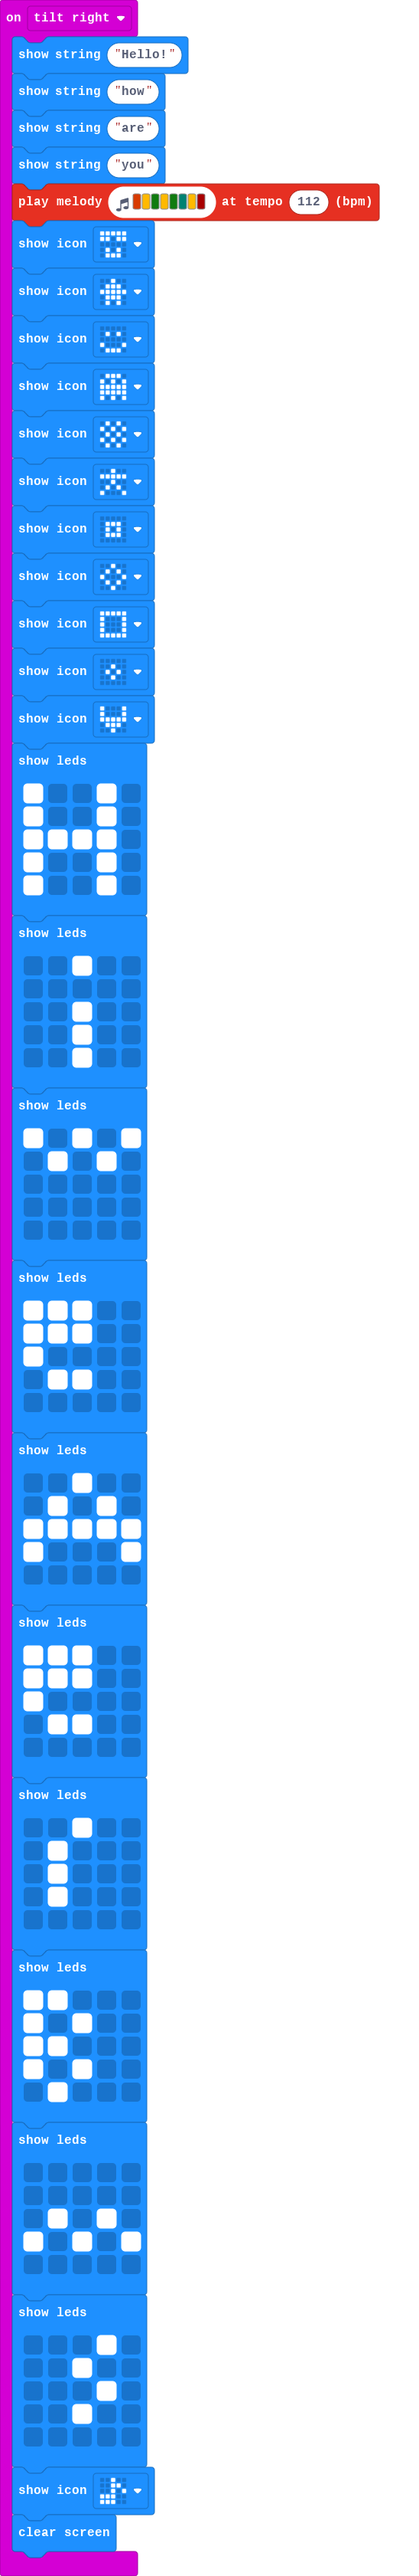
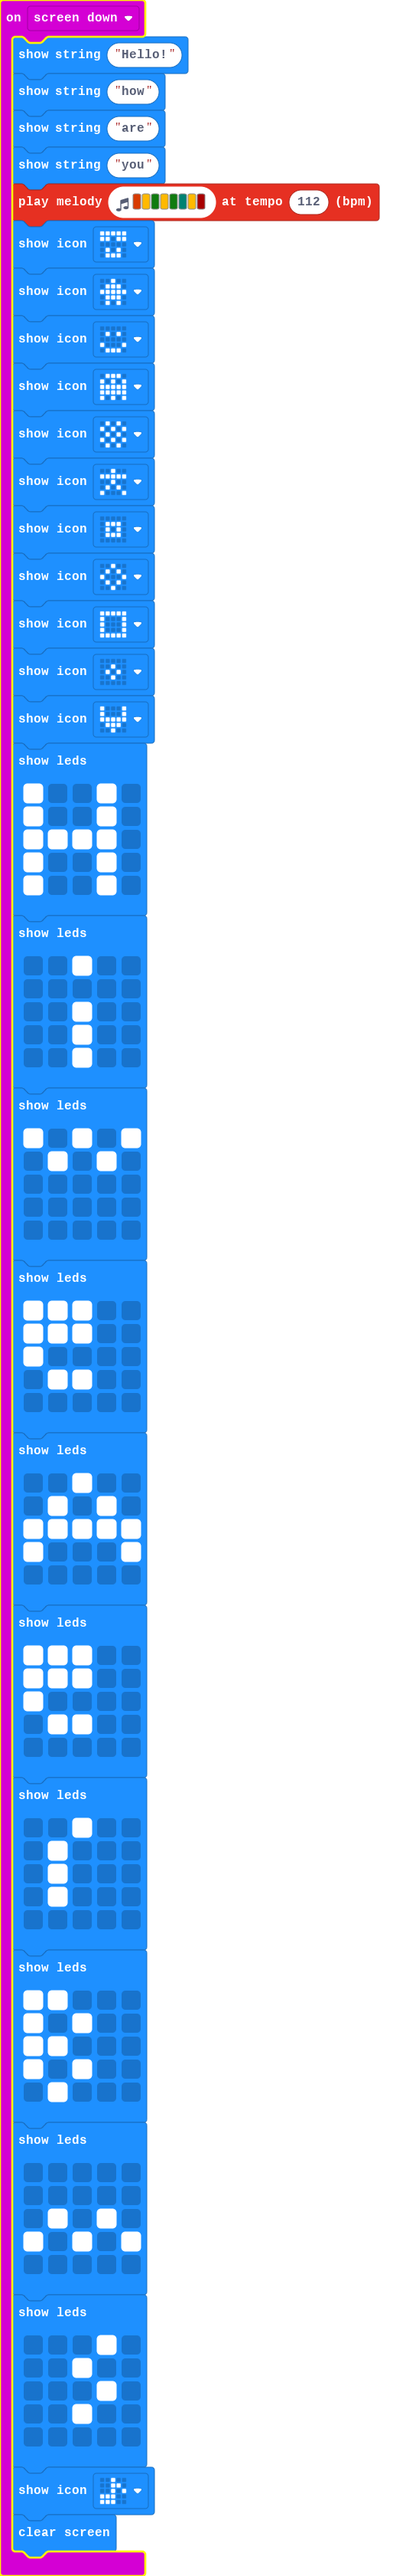
Update main.blocks, main.ts

Changed region(s): [[0.0, 0.0, 0.3723, 1.0], [0.0931, 0.0, 0.3723, 0.0312]]

diff --git a/main.ts b/main.ts
@@ -1,4 +1,4 @@
-input.onGesture(Gesture.TiltRight, function () {
+input.onGesture(Gesture.ScreenDown, function () {
     basic.showString("Hello!")
     basic.showString("how")
     basic.showString("are")
